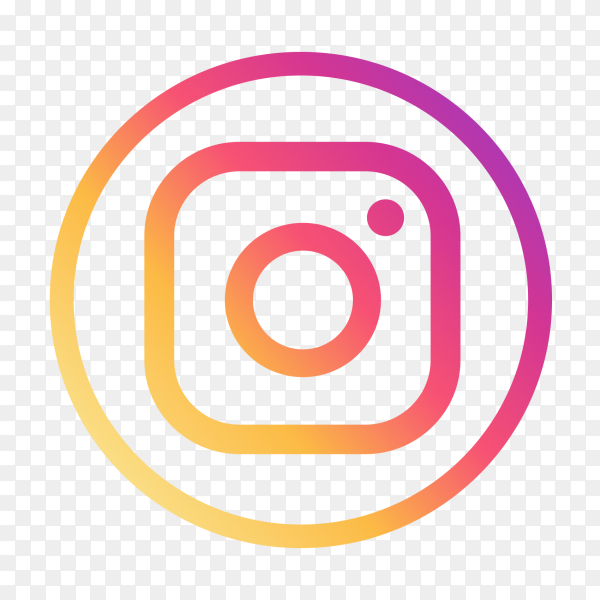
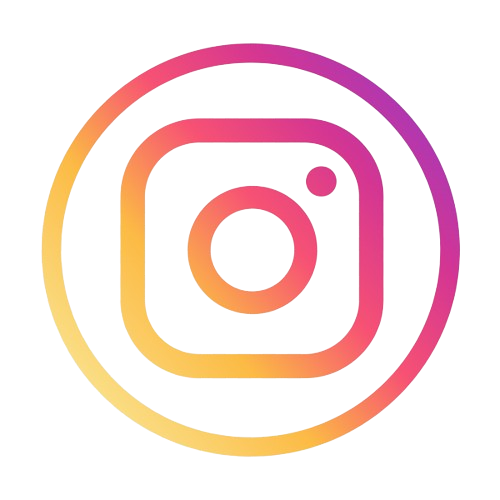
useref

diff --git a/src/Components/Danasnja_karta.js b/src/Components/Danasnja_karta.js
@@ -7,6 +7,17 @@ import "./karta.css";
 import qr from "./slikicee/frame.png";
 import logoo from "./slikicee/logoo1.jpg";
 
+const counter = useRef(0);
+const [counter2, setCounter] = useState(0);
+useEffect(() => {
+  counter.current = counter.current + 1;
+  setCounter((counter2) => counter2 + 1);
+}, [output]);
+useEffect(() => {
+  counter.current = 0;
+  setCounter(0);
+}, []);
+
 const Broj_sjedala = () => {
   return Math.floor(Math.random() * 18064) + 1;
 };
@@ -34,7 +45,7 @@ export default function Danasnja_karta({ Danasnja_karta }) {
     <div className="Danasnja_karta">
       <Glava />
       <center>
-        <h2>Broj kupljenih karata: </h2>
+        <h2>Broj kupljenih karata: {counter.current}</h2>
         <form onSubmit={handleSubmit}>
           <div className="karta">
             <div className="header">
@@ -80,7 +91,6 @@ export default function Danasnja_karta({ Danasnja_karta }) {
         </form>
         {karta.map((karta, index) => (
           <div className="karta" key={index}>
-            console.log(index);
             <div className="header">
               <img
                 src={logoo}

diff --git a/src/Components/Footer.js b/src/Components/Footer.js
@@ -1,7 +1,7 @@
 import "../styles.css";
 import "./footer.css";
 import teren from "./slikicee/chase.jpg";
-import ig from "./slikicee/ig.jpg";
+import ig from "./slikicee/ig.png";
 
 export default function Footer() {
   return (
@@ -9,8 +9,7 @@ export default function Footer() {
       <div class="footer">
         <div class="footerr">
           <div class="livo">
-            <h3>Golden State Warriors</h3>
-            <p>©Copyright - Pave Petar Vitaljić</p>
+            <h3>Golden State Warriors</h3>{" "}
             <a
               href="https://www.instagram.com/warriors/"
               target="_blank"
@@ -18,6 +17,7 @@ export default function Footer() {
             >
               <img src={ig} alt="Instagram" width="30" height="30" />
             </a>
+            <p>©Copyright - Pave Petar Vitaljić</p>
           </div>
           <div class="desno">
             <img src={teren} alt="teren"></img>
